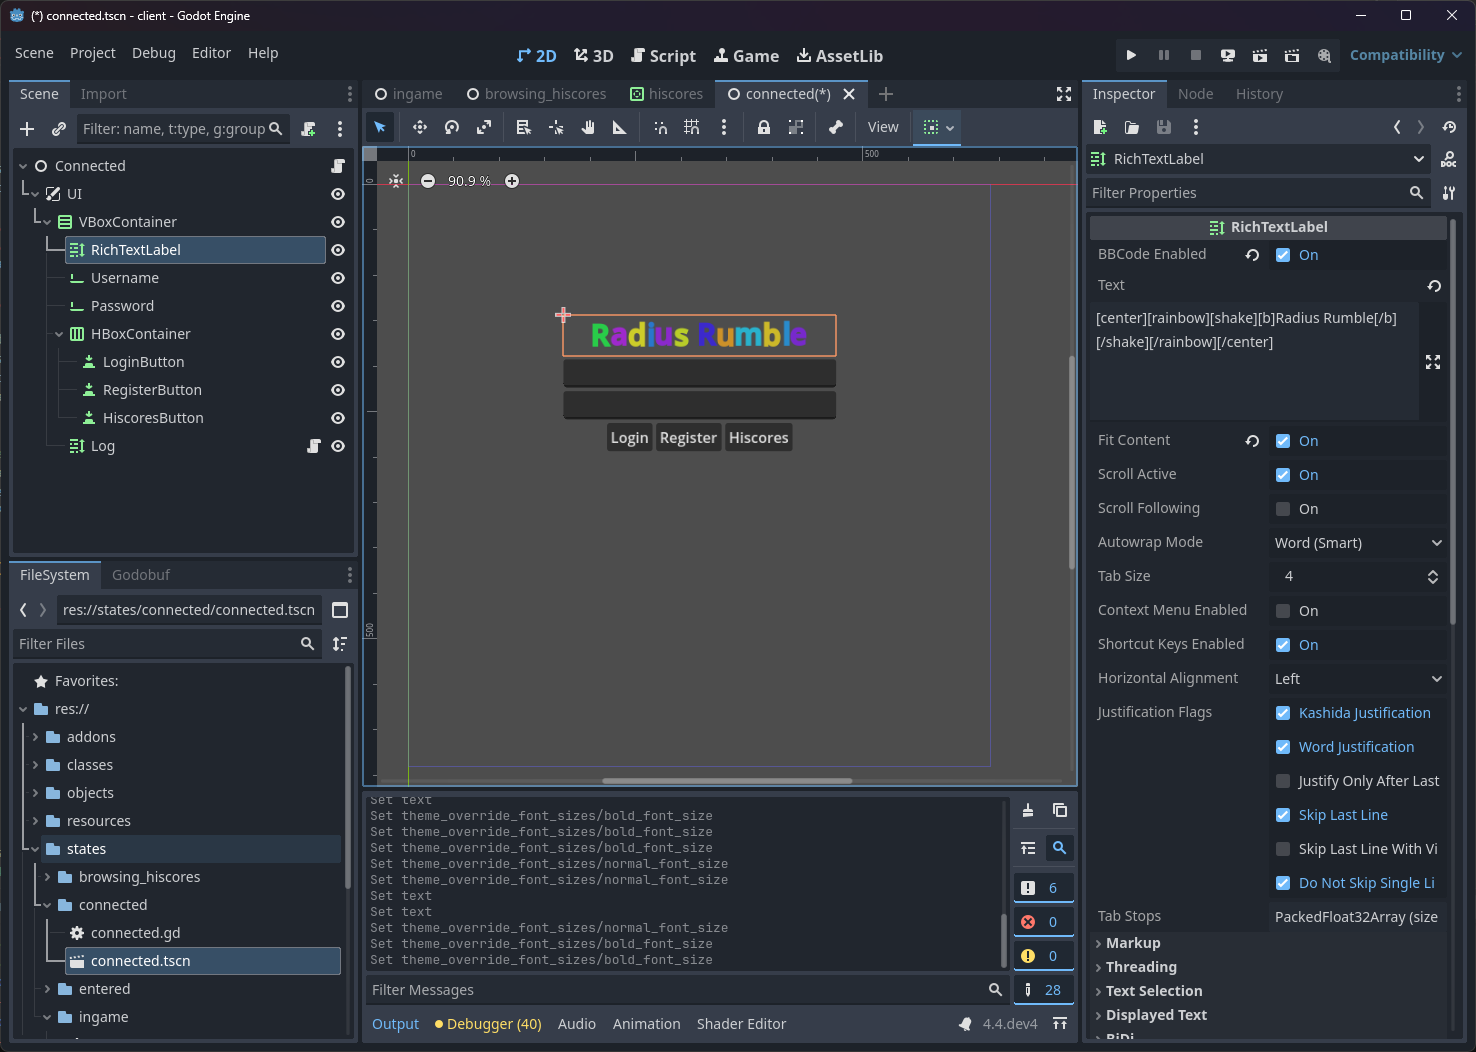
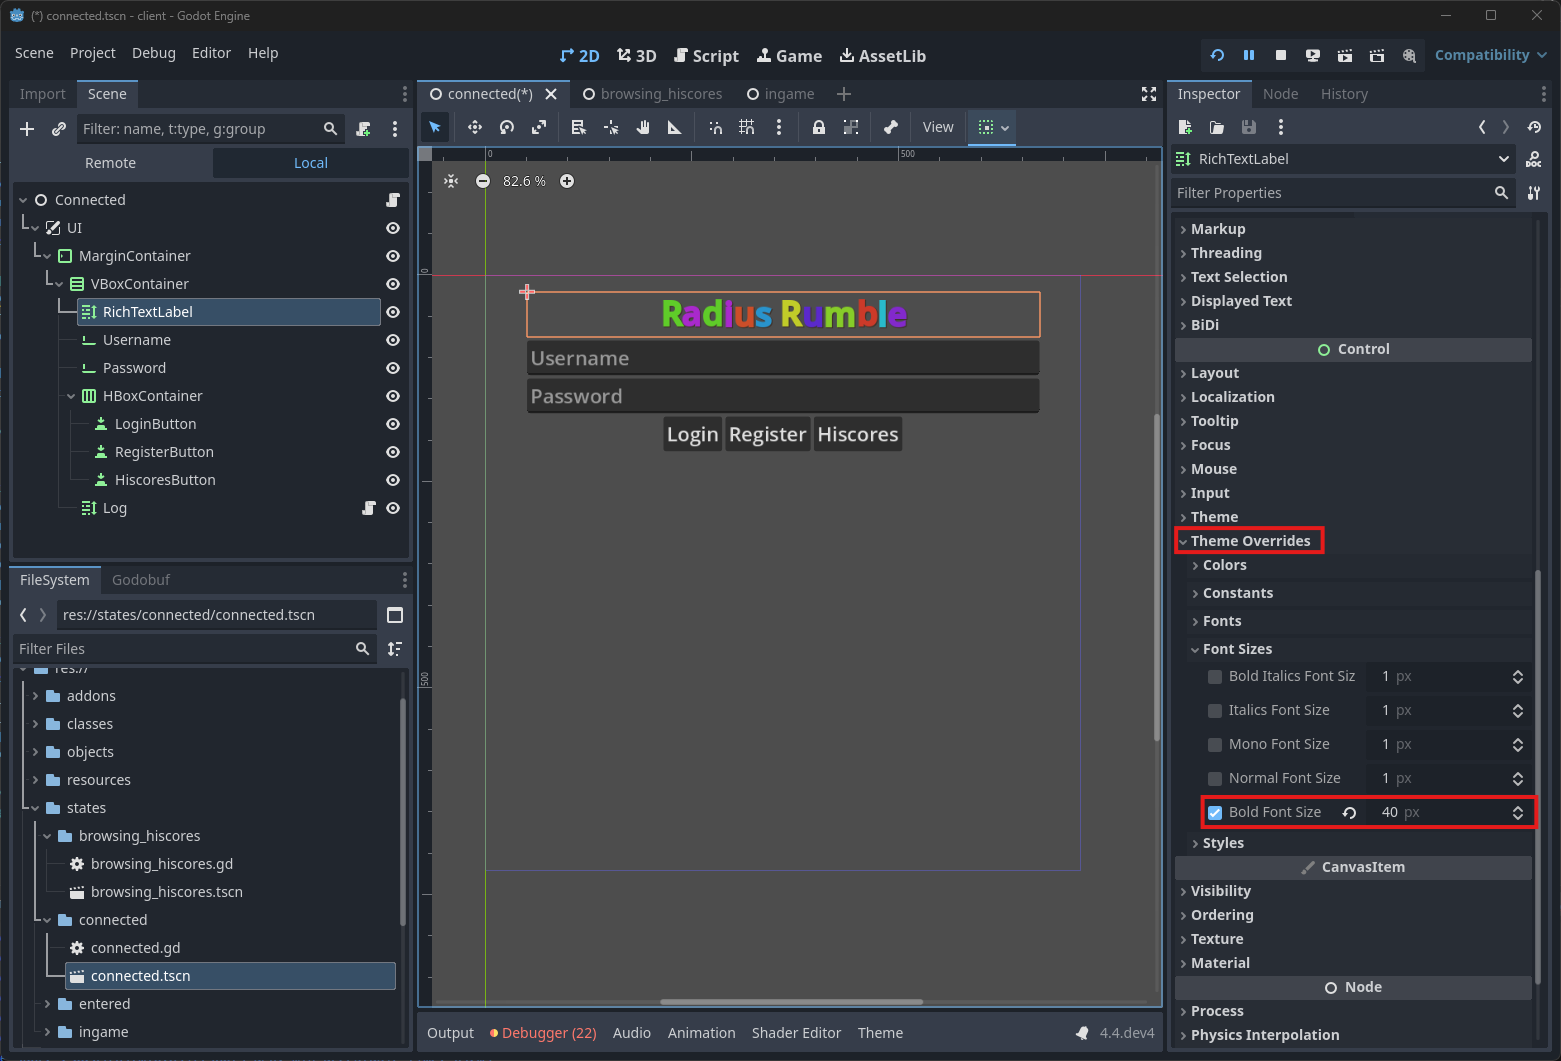
Revise login screen layout and add margin container for improved UI centering; update title formatting and enhance hiscores screen instructions.

diff --git a/_posts/2024-11-20-godot-golang-mmo-part-11.md b/_posts/2024-11-20-godot-golang-mmo-part-11.md
@@ -171,19 +171,21 @@ Now that we've zhuzhed up the in-game UI, let's do the same for the login screen
 
 ### Centering the form and adding a title
 
-Let's get everything centered and away from the top edge of the screen. We can do that by simply opening up the `res://states/connected/connects.tscn` scene and setting the top VBoxContainer's anchor preset to **Center** and then setting the **Custom Minimum Size**'s **x** value to something like 300. Because we've already set the other elements to expand, this is all we should need to do to get it looking pretty centered.
+Let's get everything centered and away from the top edge of the screen. We can do that by simply opening up the `res://states/connected/connected.tscn` scene and inserting a margin container, much like we did for the in-game scene, as a parent of the VBoxContainer's. Then set the margin container's anchor preset to **Full Rect** and override the theme's margin constants to whatever you like.
 
 We should center the buttons as well, though, so set the HBoxContainer's **Alignment** property to **Center** too.
 
-Finally, we should add a cool background and title to the login screen! Add a **RichTextLabel** node to the top of the VBoxContainer and set its **Text** property to whatever you want to call your game. I'm going with "Radius Rumble". Make sure to check the **Fit Content** property, so the text doesn't get cut off.
+![Centered Login Screen](/assets/css/images/posts/2024/11/20/centered_login_screen.png)
+
+We should add a cool title to the login screen! Add a **RichTextLabel** node to the top of the VBoxContainer and set its **Text** property to whatever you want to call your game. I'm going with "Radius Rumble". Make sure to check the **Fit Content** property, so the text doesn't get cut off.
 
 There's [a lot of cool stuff](https://docs.godotengine.org/en/stable/tutorials/ui/bbcode_in_richtextlabel.html) you can do if you enable the **BBCode Enabled** property on the RichTextLabel, for example:
 
 ```bbcode
-[center][rainbow][shake]Radius Rumble[/shake][/rainbow][/center]
+[center][rainbow][shake][b]Radius Rumble[/b][/shake][/rainbow][/center]
 ```
 
-You can also make the text bigger by using the **Theme Overrides > Font Sizes > Normal Font Size** property.
+You can also make the text bigger by using the **Theme Overrides > Font Sizes > Bold Font Size** property.
 
 ![Login Screen](/assets/css/images/posts/2024/11/20/login_screen.png)
 
@@ -198,15 +200,16 @@ To do this, simply add a **Sprite2D** node as a child of the root `Connected` no
 - **Node** - called `Connected`
     - **Sprite2D** - called `Background`
     - **CanvasLayer** - called `UI`
-      - **VBoxConatainer**
-        - **RichTextLabel**
-        - **LineEdit** - called `Username`
-        - **LineEdit** - called `Password`
-        - **HBoxContainer**
-          - **Button** - called `LoginButton`
-          - **Button** - called `RegisterButton`
-          - **Button** - called `HiscoresButton`
-        - **Log (log.gd)** - called `Log`
+      - **MarginContainer**
+        - **VBoxConatainer**
+          - **RichTextLabel**
+          - **LineEdit** - called `Username`
+          - **LineEdit** - called `Password`
+          - **HBoxContainer**
+            - **Button** - called `LoginButton`
+            - **Button** - called `RegisterButton`
+            - **Button** - called `HiscoresButton`
+          - **Log (log.gd)** - called `Log`
 
 Now make the following edits to the `Background` sprite:
 1. Set the **Texture** property to `resources/floor.svg` (use the **Quick Load...** option in the drop-down)
@@ -257,7 +260,7 @@ There's a lot more we could do here, like letting users press Enter to log in, o
 
 ### Revamping the hiscores screen
 
-Finally, let's pretty much do the same thing to the hiscores screen. We'll be adding the same title, the same centering technique, and the same background image and shader effect. I will leave this as an exercise for the reader (hint: you can copy and paste the `Background` sprite and RichTextLabel from the `Connected` scene and all the properties will be the same).
+Finally, let's pretty much do the same thing to the hiscores screen. We'll be adding the same title and the same background image and shader effect. You can also add a margin container like we did with the in-game UI. I will leave this as an exercise for the reader (hint: you can copy and paste the `Background` sprite and RichTextLabel from the `Connected` scene and all the properties will be the same).
 
 <video controls>
   <source src="/assets/css/images/posts/2024/11/20/copypaste.webm" type="video/webm">
@@ -295,6 +298,11 @@ So now our game looks like this:
 ![Connected Screen](/assets/css/images/posts/2024/11/20/connected_screen.png)
 
 This is cool and all, but there's just one more feature I want to add before we call it a day. It would be really great if players could choose their color when they register, and having a separate registration screen would make more sense. That way, we can also get users to type their password twice to confirm it.
+
+## Making the window resizable
+
+It is possible to resize the window currently, but it has a couple of issues. It doesn't scale the UI or the game world, so it gives an unfair advantage to players who have a larger screen while also making it harder to read the text on-screen. We can fix that by going to **Project Settings > Display > Window > Stretch** and setting the stretch **Mode** to **viewport** and the **Aspect** to **Keep**. 
+
 
 ## Adding a separate registration screen
 *Coming soon...*
